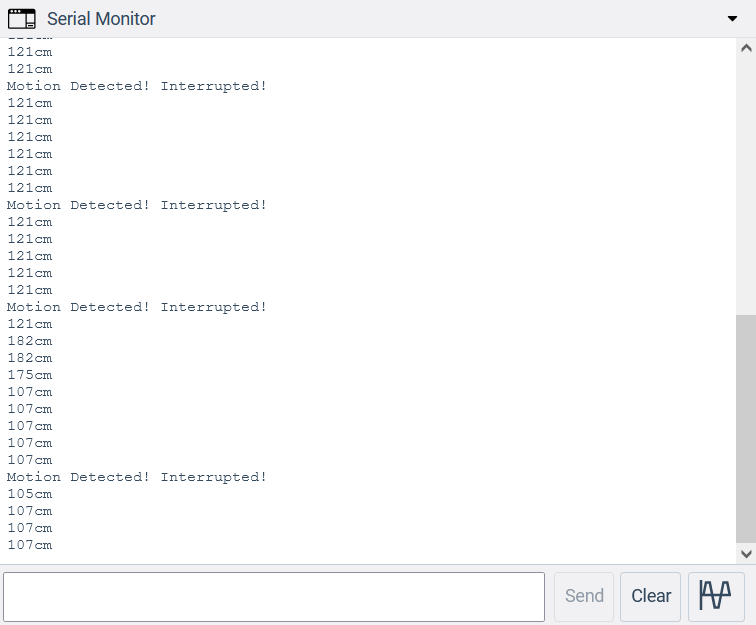
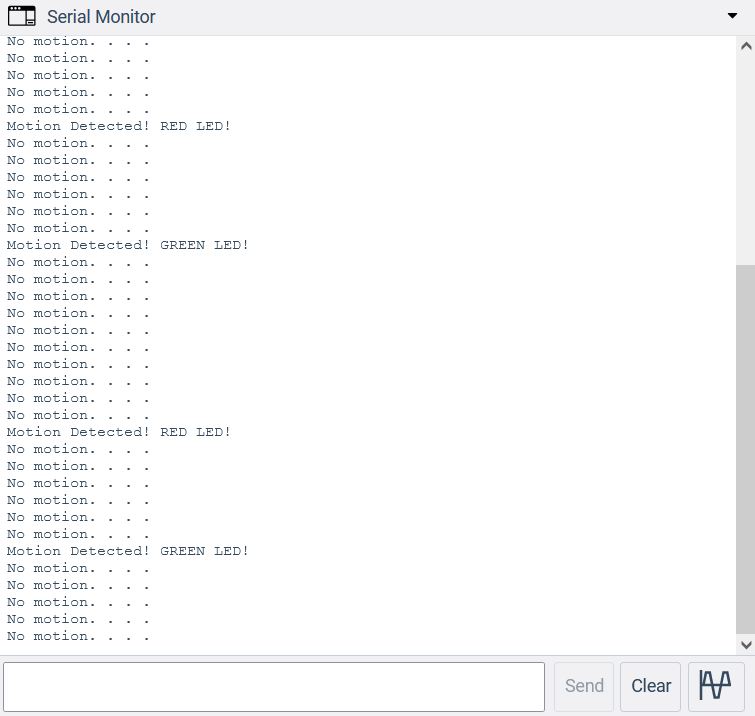
Task 1.3C Updated

diff --git a/Module1/Task1.3C.cpp b/Module1/Task1.3C.cpp
@@ -1,53 +1,50 @@
 // C++ code
 //
-const byte pirPin = 2;
-const byte echoPin = 13;    // Ultrasonic Echo Pin
-const byte trigPin = A0;    // Ultrasonic Trigger Pin
+const byte pirPin1 = 2;
+const byte pirPin2 = 3;
 const byte ledRedPin = 7;   // LED RED Pin
 const byte ledGreenPin = 6; // LED GREEN Pin
-volatile byte ledState = HIGH;
-volatile byte pirState = LOW;
+volatile byte ledRedState = LOW;
+volatile byte ledGreenState = LOW;
+volatile byte pirStateRed = LOW;
+volatile byte pirStateGreen = LOW;
 
 void setup()
 {
-    Serial.begin(9600);            // Starting Serial Terminal
-    pinMode(pirPin, INPUT_PULLUP); // Set the pin for PIR
-    pinMode(trigPin, OUTPUT);      // Set the pin for trigger
-    pinMode(echoPin, INPUT);       // Set the pin for echo
-    pinMode(ledRedPin, OUTPUT);    // Set the pin for LED RED
-    pinMode(ledGreenPin, OUTPUT);  // Set the pin for LED GREEN
-    attachInterrupt(digitalPinToInterrupt(pirPin), turnLED, RISING);
+    Serial.begin(9600);             // Starting Serial Terminal
+    pinMode(pirPin1, INPUT_PULLUP); // Set the pin for PIR1
+    pinMode(pirPin2, INPUT_PULLUP); // Set the pin for PIR2
+    pinMode(ledRedPin, OUTPUT);     // Set the pin for LED RED
+    pinMode(ledGreenPin, OUTPUT);   // Set the pin for LED GREEN
+    attachInterrupt(digitalPinToInterrupt(pirPin1), turnLEDRed, RISING);
+    attachInterrupt(digitalPinToInterrupt(pirPin2), turnLEDGreen, RISING);
 }
 
 void loop()
 {
-    long duration, distance; // Distance in cm
-
-    // Calculating distance
-    digitalWrite(trigPin, LOW);
-    delayMicroseconds(2);
-    digitalWrite(trigPin, HIGH);
-    delayMicroseconds(10);
-    digitalWrite(trigPin, LOW);
-    duration = pulseIn(echoPin, HIGH);
-    distance = duration / 29 / 2;
-
     // Detecting motion to trigger interruption
-    pirState = digitalRead(pirPin);
+    pirStateRed = digitalRead(pirPin1);
+    pirStateGreen = digitalRead(pirPin2);
 
-    //Serial.print("No motion");
-    Serial.print(distance);
-    Serial.print("cm");
+    Serial.print("No motion. . . .");
     Serial.println();
-    digitalWrite(ledRedPin, ledState);
-    digitalWrite(ledGreenPin, !ledState);
+    digitalWrite(ledRedPin, ledRedState);
+    digitalWrite(ledGreenPin, ledGreenState);
     delay(500);
 }
 
-void turnLED()
+void turnLEDRed()
 {
-    ledState = !ledState;
-    Serial.print("Motion Detected! Interrupted!");
+    ledRedState = !ledRedState;
+    Serial.print("Motion Detected! RED LED!");
+    Serial.println();
+    delay(2000);
+}
+
+void turnLEDGreen()
+{
+    ledGreenState = !ledGreenState;
+    Serial.print("Motion Detected! GREEN LED!");
     Serial.println();
     delay(2000);
 }
